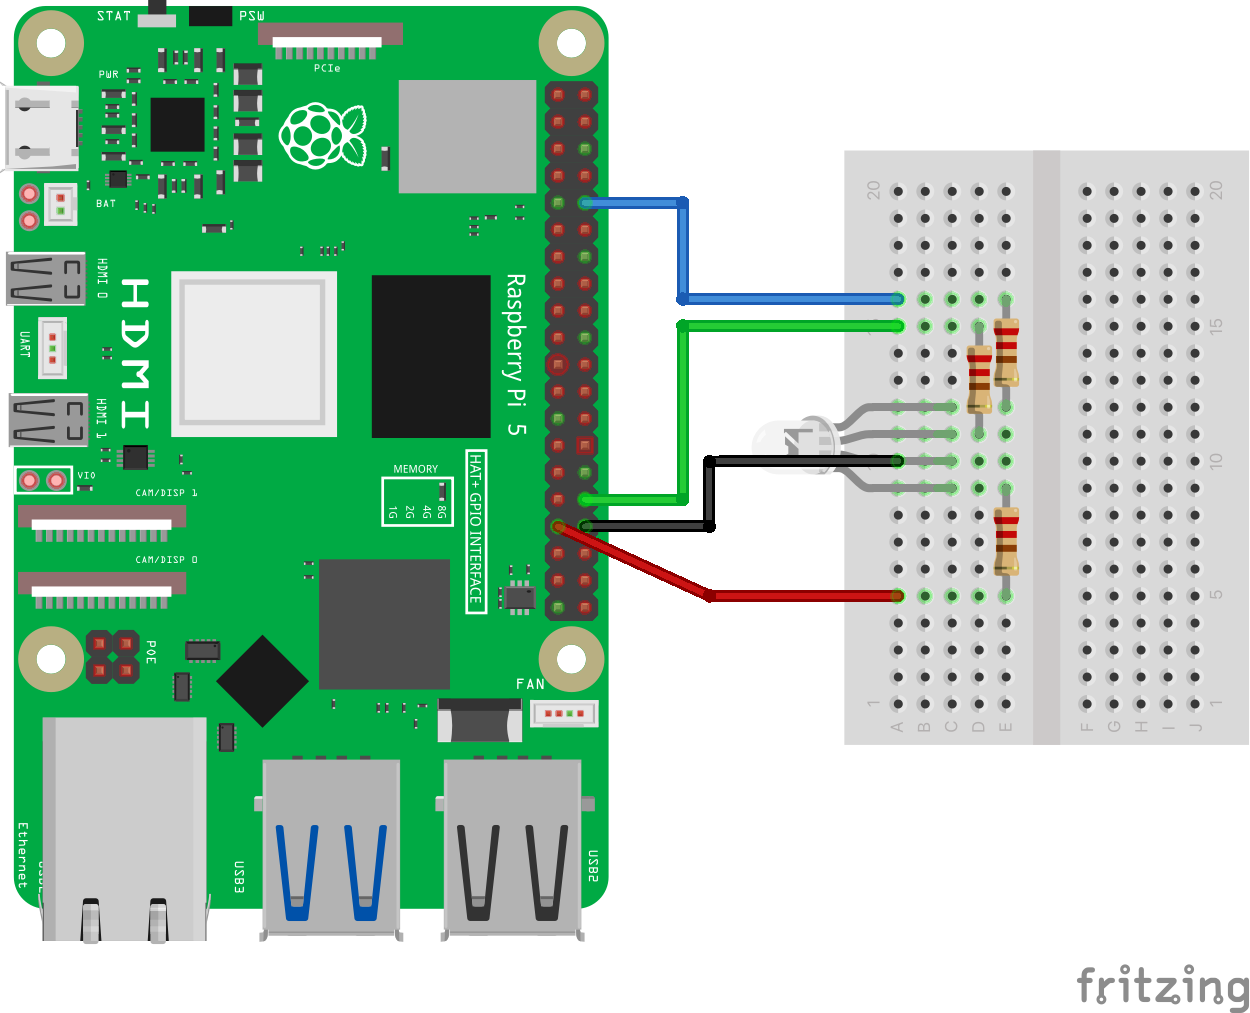
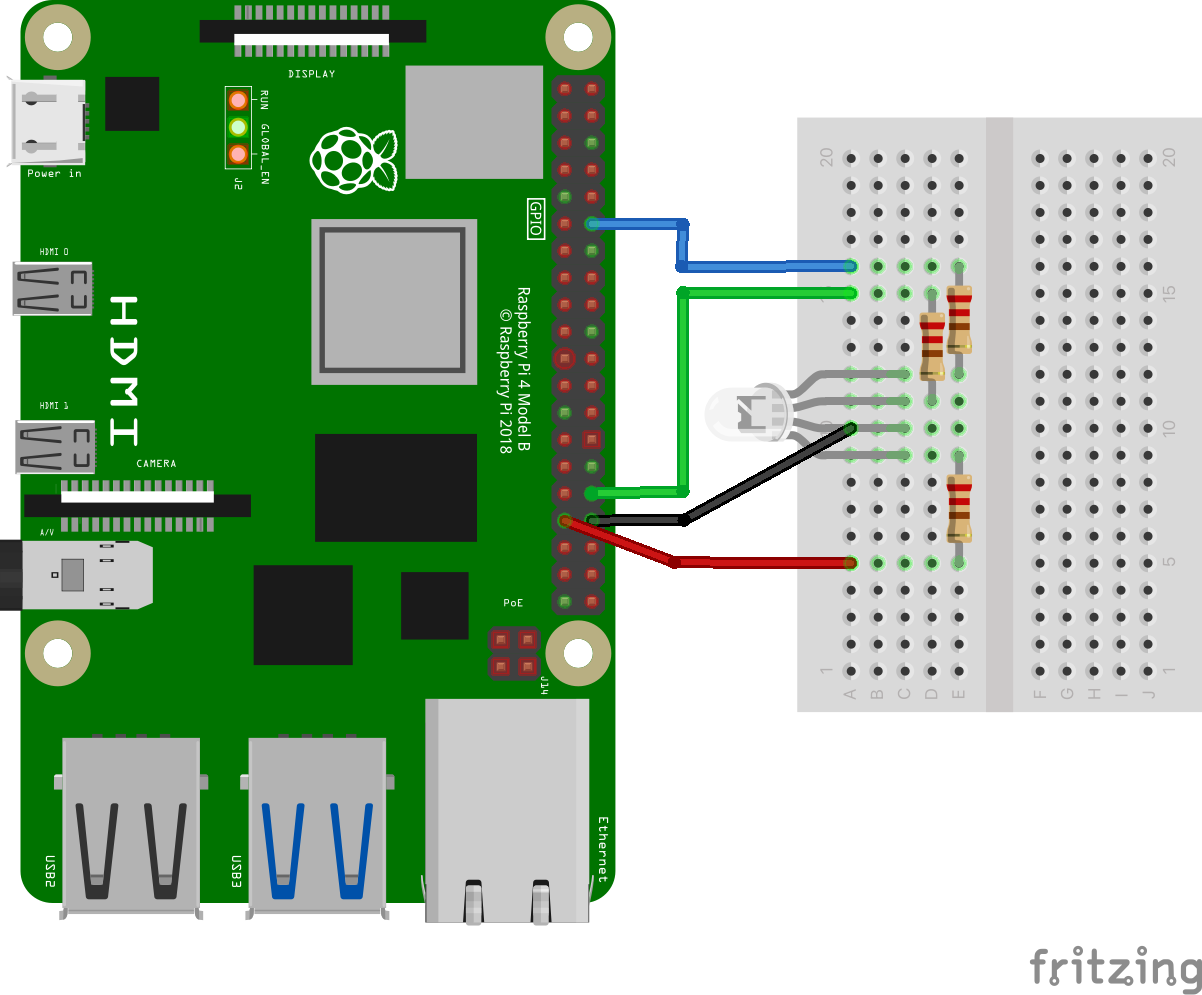
update per review feedback

diff --git a/site/viamguides/src/rgbled/rgbled.md b/site/viamguides/src/rgbled/rgbled.md
@@ -109,21 +109,35 @@ Duration: 2
 
 ### Add your RGB LED
 
-1. **Connect the RGB LED**: The LED can be controlled via a GPIO pin on the Raspberry Pi. Refer to the following wiring diagram to connect the Raspberry Pi to the RGB LED, using the breadboard and also resistors to control the flow of electricity.
+1. **Review the wiring diagram**: The LED can be controlled via a GPIO pin on the Raspberry Pi. Refer to the following wiring diagram to see how to connect the Raspberry Pi to the RGB LED, using the breadboard and also resistors to control the flow of electricity.
 
-![wiring diagram](assets/rgbledWiring.png)
+   ![wiring diagram](assets/rgbledWiring.png)
 
-- Pin 12 (GPIO 18) to Blue
-- Pin 32 (GPIO 12) to Green
-- Pin 33 (GPIO 13) to Red
-- Pin 34 (GND) to Common
+   - Pin 12 (GPIO 18) to Blue
+   - Pin 32 (GPIO 12) to Green
+   - Pin 33 (GPIO 13) to Red
+   - Pin 34 (GND) to Common
 
-> aside positive
-> The website [pinout.xyz](https://pinout.xyz/) is a helpful resource with the exact layout and role of each pin for Raspberry Pi. When working with Viam, make sure to reference the physical pin numbers, and not the GPIO numbers listed on `pinout.xyz`.
+   > aside positive
+   > The website [pinout.xyz](https://pinout.xyz/) is a helpful resource with the exact layout and role of each pin for Raspberry Pi. When working with Viam, make sure to reference the physical pin numbers, and not the GPIO numbers listed on `pinout.xyz`.
 
-![photo of LED connected to Raspberry Pi](assets/brightLED.png)
+1. **Review the LED orientation**: A common cathode RGB LED has four legs:
 
-Now that we have physically connected our hardware components, let's configure the software in the next section.
+   - **Common Cathode (GND)**: The longest leg should be connected to ground.
+   - **Red (R)**: Typically the leg next to the common cathode (to the left as shown below).
+   - **Green (G)**: The leg on the other side of the cathode (to the right as shown below).
+   - **Blue (B)**: The farthest leg from the cathode.
+
+   ![common cathode diagram](assets/commonCathode.png)
+
+1. **Wire the RGB LED to the Raspberry Pi**: The breadboard simplifies the wiring process by providing a secure platform to connect components without soldering. Connect the longest leg of the LED (common cathode) to the ground (GND) pin (physical pin 34) on the Raspberry Pi. Then, connect the red, green, and blue legs of the LED to resistors (68Ω for red, 10Ω for green, and 10Ω for blue). These resistors should then be connected to pins 33, 32, and 12, respectively. Double-check connections to ensure correct polarity and avoid miswiring.
+
+   > aside positive
+   > Your LED may come with resistors of the recommended resistance. If the Ohm level is too high, then no power will get to the LED. You can figure out which ones you're using with [this handy tool](https://www.digikey.com/en/resources/conversion-calculators/conversion-calculator-resistor-color-code).
+
+   ![photo of LED connected to Raspberry Pi](assets/brightLED.png)
+
+Now that you have physically connected the hardware components, let's configure the software in the next section.
 
 ---
 
@@ -195,7 +209,7 @@ You can manually and programmatically use the GPIO pins of the [`board`](https:/
    }
    ```
    ![test rgb led](assets/testLED.png)
-   You are executing a [`DoCommand`](https://docs.viam.com/components/generic/#api) on a generic component that has been predefined to accept parameters within a `control_rgb_led` command, such as `red`, `green`, `blue`, and `duration`.
+   You are executing a [`DoCommand`](https://docs.viam.com/components/generic/#api) on a generic component that has been predefined to accept parameters within a `control_rgb_led` command, such as `red`, `green`, `blue`, and `duration`. With these values, red will be at 80% brightness, green at 50% brightness, blue at 20% brightness - displaying a pulsating mixed color for a total duration of 2 seconds.
 1. Experiment with different numerical values in those fields to see what happens when you execute the command again. If you have extra time, try sending the following Do command.
    ```json
    {
